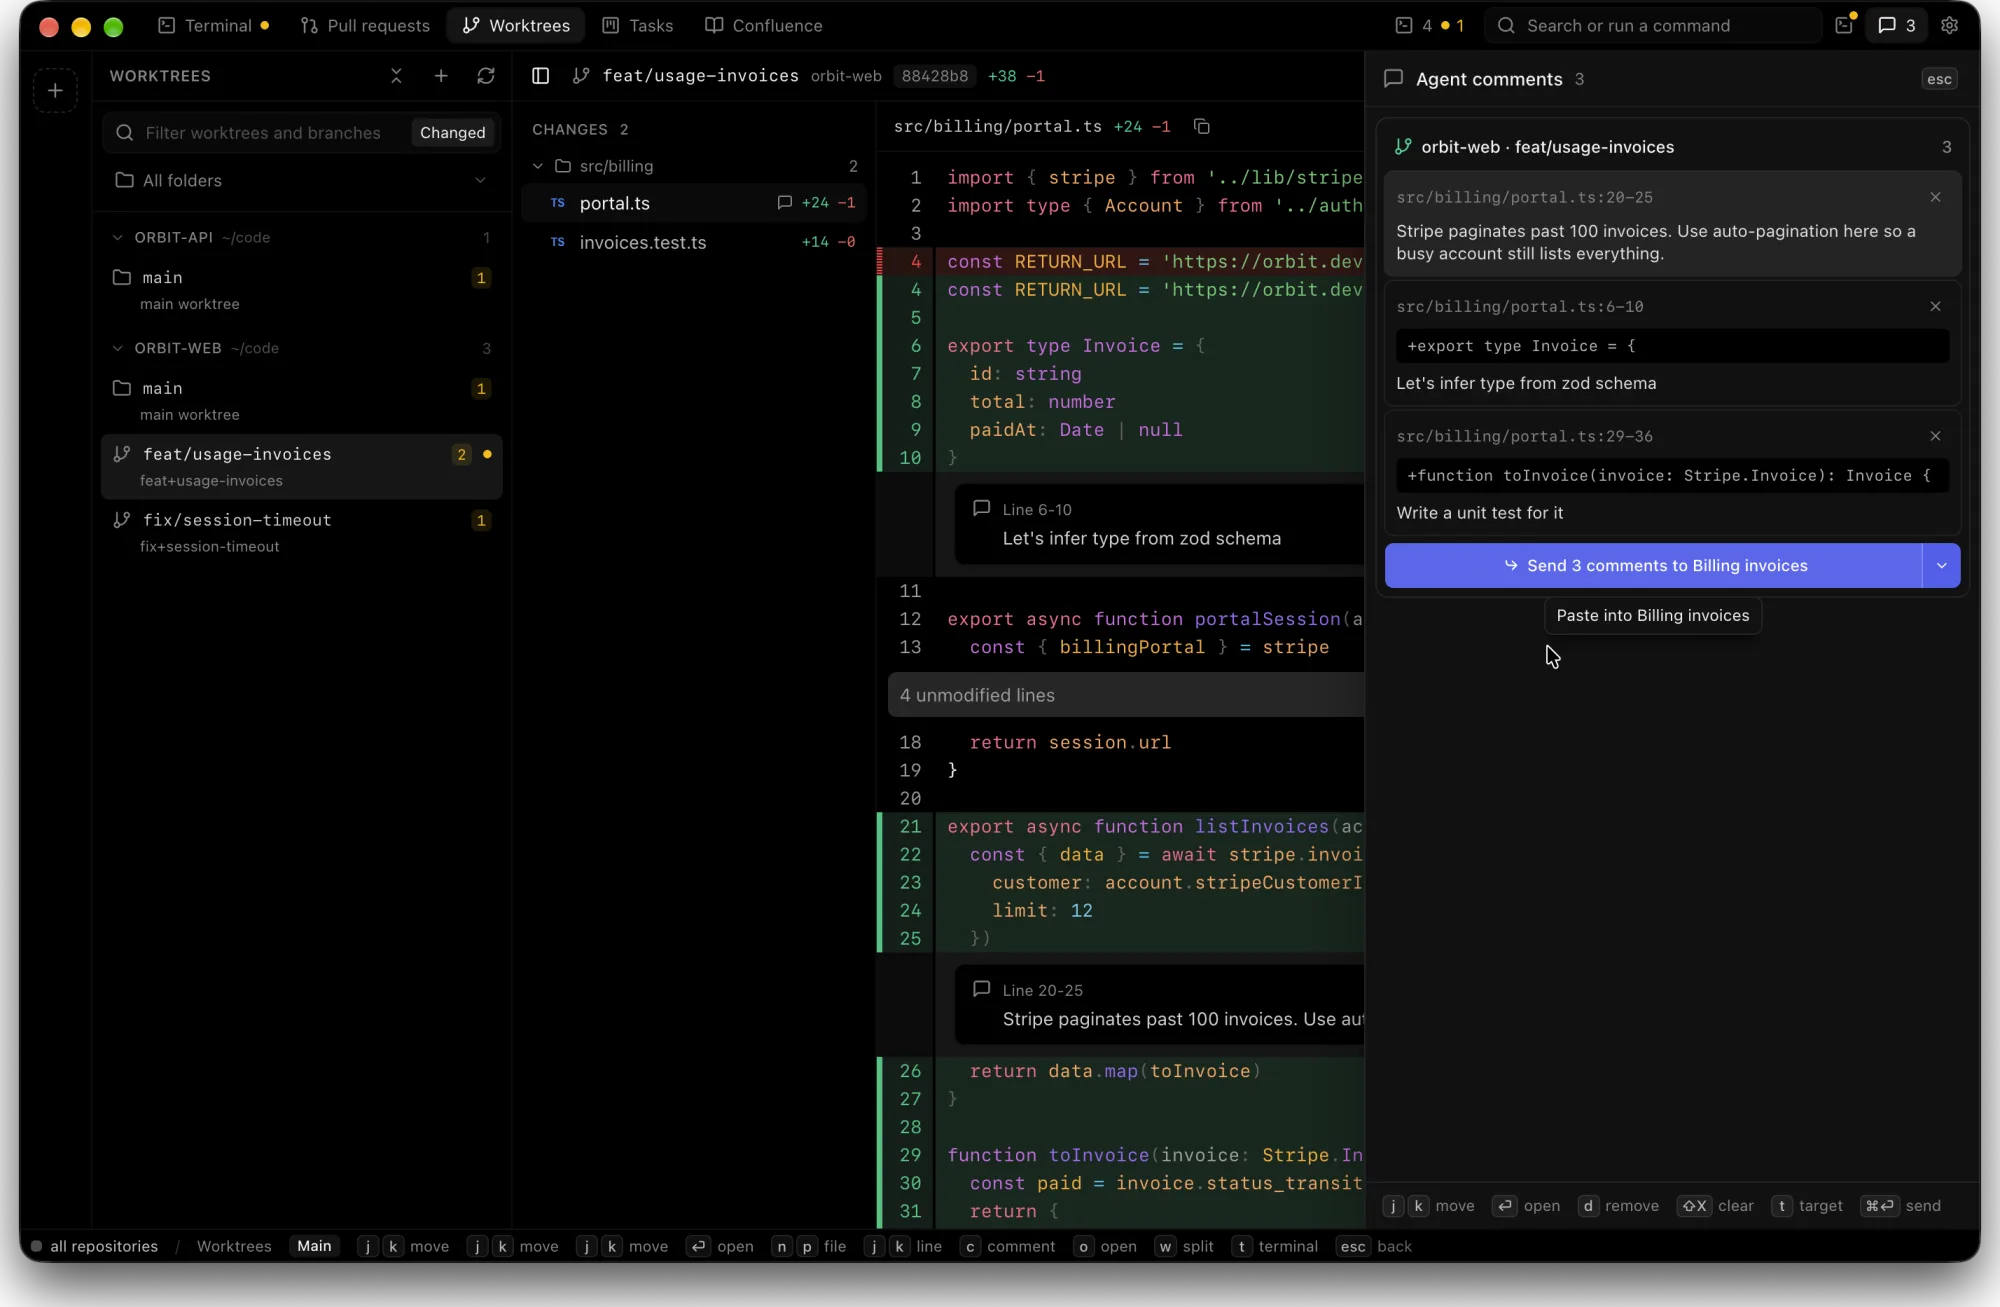
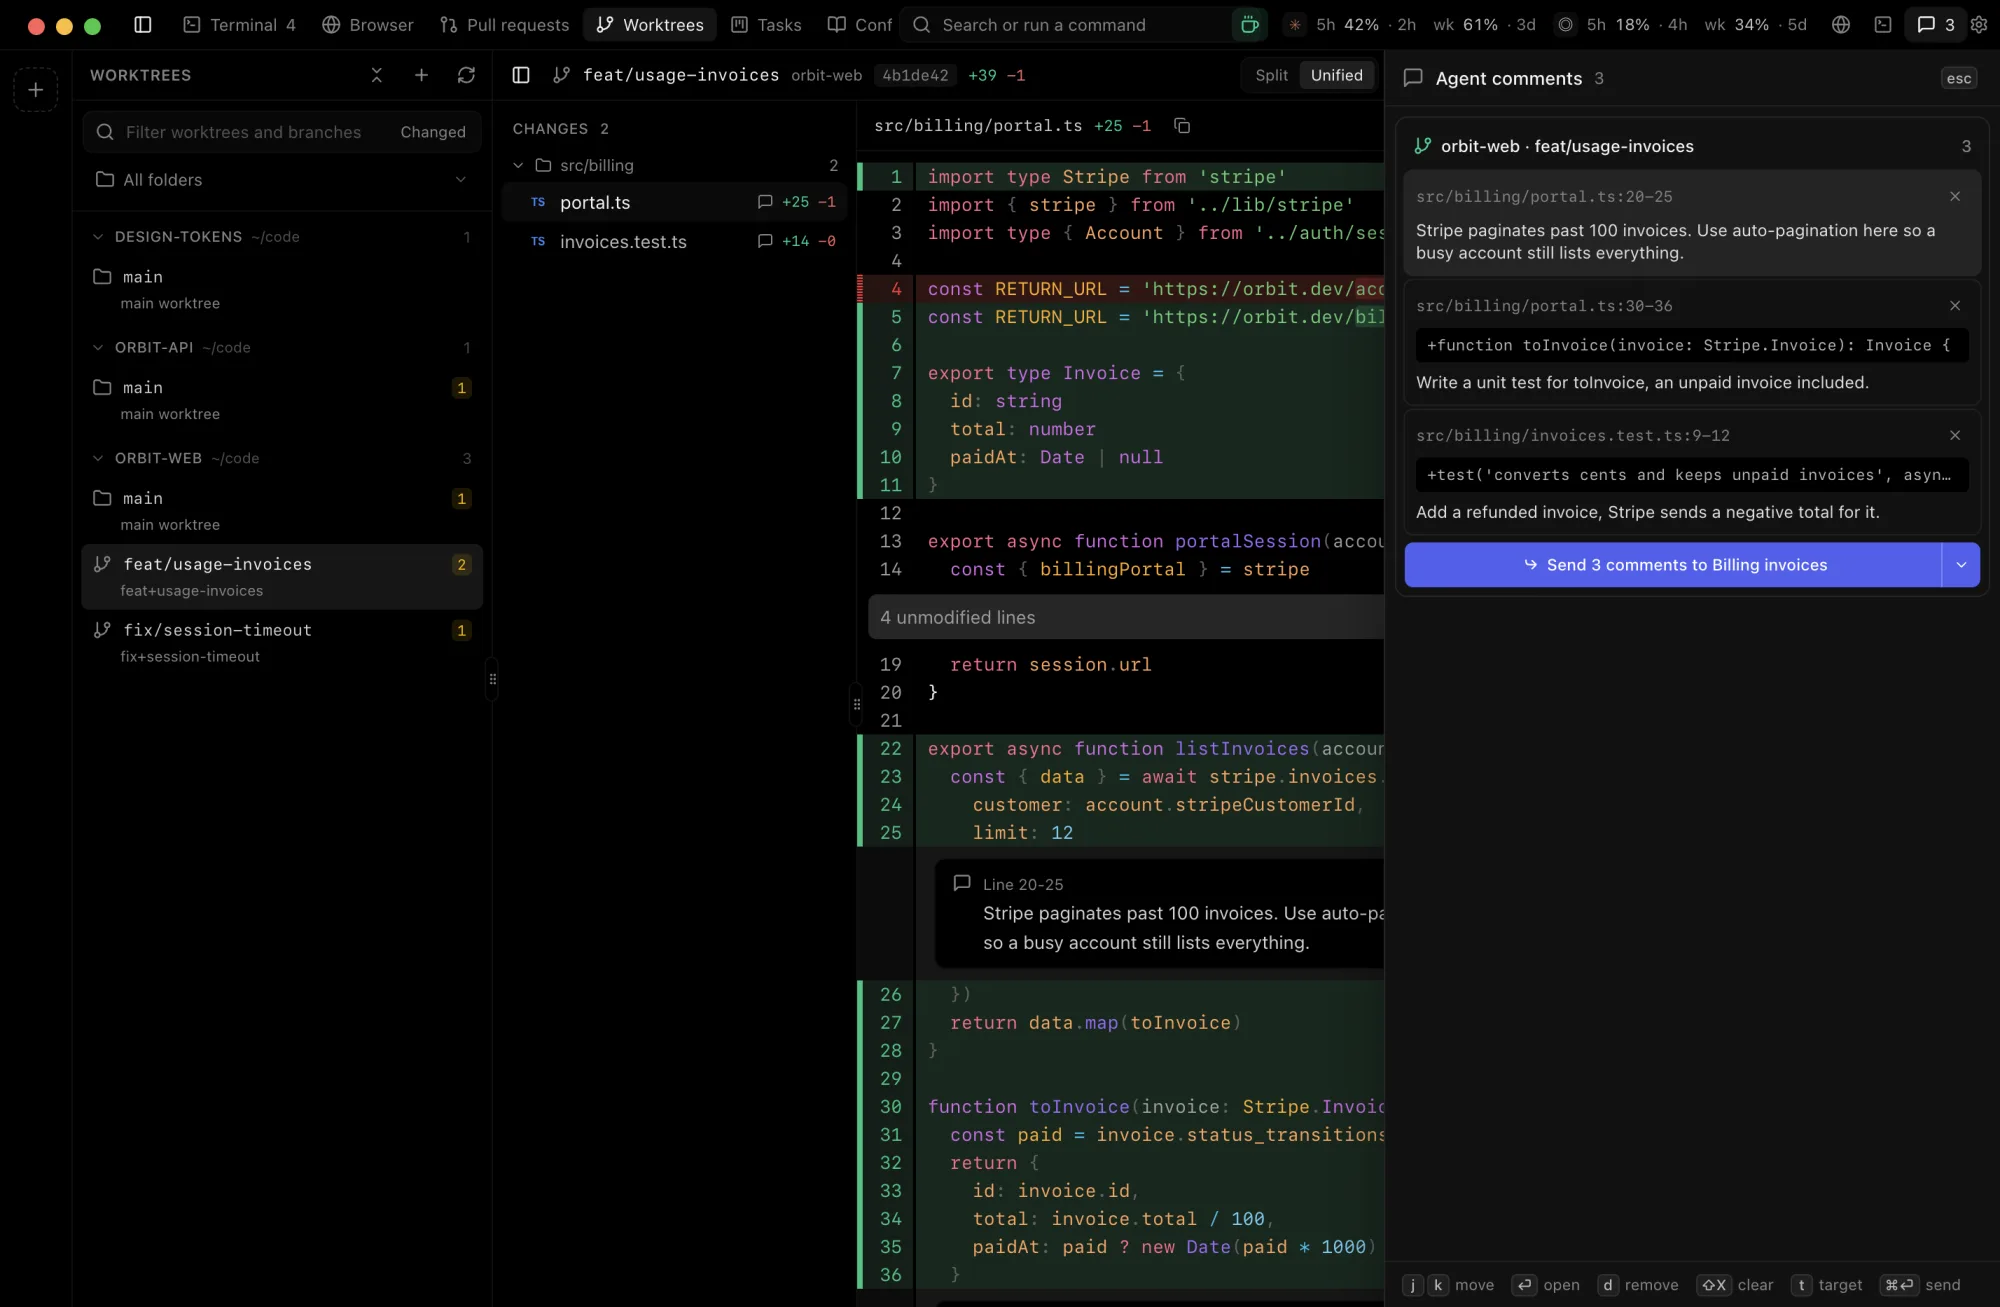
docs: refresh screenshots, add the tour video, llms.txt, sitemap and structured data

diff --git a/apps/landing/index.html b/apps/landing/index.html
@@ -10,6 +10,14 @@
   <meta property="og:image" content="https://treeix.dyvertex.com/assets/og.png" />
   <meta property="og:url" content="https://treeix.dyvertex.com" />
   <meta name="twitter:card" content="summary_large_image" />
+  <link rel="canonical" href="https://treeix.dyvertex.com/" />
+  <meta property="og:type" content="website" />
+  <meta property="og:site_name" content="Treeix" />
+  <meta name="twitter:title" content="Treeix - the AI coding workspace" />
+  <meta name="twitter:description" content="Every worktree, every AI agent session and every pull request in one macOS window." />
+  <meta name="twitter:image" content="https://treeix.dyvertex.com/assets/og.png" />
+  <script type="application/ld+json">{"@context": "https://schema.org", "@type": "SoftwareApplication", "name": "Treeix", "applicationCategory": "DeveloperApplication", "operatingSystem": "macOS 14 or later, Apple silicon", "description": "Treeix is a free, open source AI coding workspace for macOS. It finds every git worktree on your Mac, shows what each Claude Code or Codex agent changed, and sends your line comments back to the agent as its next prompt. GitHub and GitLab pull requests, Jira tickets, Confluence pages, agent terminals, a browser and .env files sit in the same window.", "url": "https://treeix.dyvertex.com", "downloadUrl": "https://treeix.dyvertex.com/download", "image": "https://treeix.dyvertex.com/assets/og.png", "screenshot": "https://treeix.dyvertex.com/assets/hero.webp", "license": "https://www.apache.org/licenses/LICENSE-2.0", "isAccessibleForFree": true, "offers": {"@type": "Offer", "price": "0", "priceCurrency": "USD"}, "codeRepository": "https://github.com/zaxovaiko/treeix", "sameAs": ["https://github.com/zaxovaiko/treeix"], "author": {"@type": "Organization", "name": "Dyvertex", "url": "https://dyvertex.com"}}</script>
+  <script type="application/ld+json">{"@context": "https://schema.org", "@type": "FAQPage", "mainEntity": [{"@type": "Question", "name": "Does my code leave my machine?", "acceptedAnswer": {"@type": "Answer", "text": "No. Treeix reads your repositories locally and runs the command line tools you already have: git for diffs, gh and glab for pull requests, claude and codex for sessions. There is no Treeix server."}}, {"@type": "Question", "name": "Which AI agents does it work with?", "acceptedAnswer": {"@type": "Answer", "text": "Claude Code and Codex, each in its own terminal pane. A plain shell session works too, and Treeix still notices when a session is waiting for an answer."}}, {"@type": "Question", "name": "Do I have to use git worktrees?", "acceptedAnswer": {"@type": "Answer", "text": "No. Any repository under your home folder shows up. Worktrees are how Treeix keeps one agent per branch without touching the checkout you are working in, so it makes them easy, but plain repositories are fine."}}, {"@type": "Question", "name": "What do I need installed?", "acceptedAnswer": {"@type": "Answer", "text": "Git, plus whatever the features you use need: gh or glab for pull requests, claude or codex for agent sessions, acli for Jira and Confluence. Each one is optional and its feature stays quiet without it."}}, {"@type": "Question", "name": "Which Macs does it run on?", "acceptedAnswer": {"@type": "Answer", "text": "Apple silicon, macOS 14 or later. The first launch needs Open Anyway under Privacy & Security, because the build is not notarised yet."}}, {"@type": "Question", "name": "Is it really free?", "acceptedAnswer": {"@type": "Answer", "text": "Yes. Free to download, and the source is public under Apache 2.0. If it saves you an afternoon, open an issue with what you would fix next."}}]}</script>
   <link rel="icon" href="/assets/favicon.png" />
   <link rel="preconnect" href="https://fonts.googleapis.com" />
   <link rel="preconnect" href="https://fonts.gstatic.com" crossorigin />
@@ -74,7 +82,7 @@
       </div>
 
       <figure class="hero-shot">
-        <img src="/assets/hero.webp" width="2000" height="1307" alt="Treeix showing the diff of the feat/usage-invoices worktree, with a comment being written on lines 5 to 9" />
+        <img src="/assets/hero.webp" width="2000" height="1307" alt="Treeix showing the diff of the feat/usage-invoices worktree, with a comment being written on lines 6 to 10" />
       </figure>
     </section>
 

diff --git a/README.md b/README.md
@@ -11,11 +11,13 @@
 [![Electron](https://img.shields.io/badge/Electron-39-47848F.svg?logo=electron&logoColor=white)](https://www.electronjs.org/)
 [![React](https://img.shields.io/badge/React-19-61DAFB.svg?logo=react&logoColor=black)](https://react.dev/)
 [![Bun](https://img.shields.io/badge/Bun-tests-000000.svg?logo=bun&logoColor=white)](https://bun.sh/)
-[![Plugins](https://img.shields.io/badge/plugins-8-8b5cf6.svg)](packages/README.md)
+[![Plugins](https://img.shields.io/badge/plugins-12-8b5cf6.svg)](packages/README.md)
 
 [Download](https://treeix.dyvertex.com/download) · [Website](https://treeix.dyvertex.com) · [Plugin docs](packages/README.md) · [Architecture](docs/architecture.md)
 
-<img src="apps/landing/assets/hero.webp" alt="Treeix reviewing a worktree diff" width="900" />
+<a href="https://youtu.be/Un4AvXgqtAM"><img src="apps/landing/assets/tour.webp" alt="Watch the 80-second Treeix tour on YouTube" width="900" /></a>
+
+[Watch the 80-second tour](https://youtu.be/Un4AvXgqtAM)
 
 </div>
 
@@ -30,6 +32,11 @@ AI agents write code faster than anyone can read it. The reading is the bottlene
 - **Sessions keep running.** Claude, Codex, a shell or any CLI agent you add survive a reload, docked next to the diff or in their own tab.
 - **Pull requests.** `gh` and `glab` bring GitHub and GitLab pull requests in with their review threads, viewed files, conflict and CI state.
 - **Tasks and pages.** The Atlassian CLI opens Jira work items and Confluence pages beside the branch, and a URL previews wherever you paste it.
+- **Browser.** A Chromium tab with DevTools for the app your agent is building. Comment on an element and the note joins the same queue as your code comments.
+- **Editor.** Fix a line yourself in the built-in editor. Every save keeps a snapshot you can go back to.
+- **Env.** Every `.env` file across your worktrees in one table: what is secret, what is exposed to the browser, what is missing or differs from `main`.
+- **Usage limits.** Claude and Codex 5-hour and weekly limits in the title bar, so a long run does not stop by surprise.
+- **History.** Closed sessions stay in History. Reopen one and the agent picks up the same conversation.
 - **Markdown.** Headings fold, mermaid blocks render, private uploads load their images, and full screen zooms.
 - **Everything is a plugin.** Switch any feature above off in Settings and it stops loading its code entirely.
 
@@ -49,7 +56,7 @@ AI agents write code faster than anyone can read it. The reading is the bottlene
 
 **Every worktree, its diff and your comments on one screen.** Split or unified, comments sit on the lines they belong to.
 
-<img src="apps/landing/assets/hero.webp" alt="The diff of the feat/usage-invoices worktree with a comment being written on lines 5 to 9" width="900" />
+<img src="apps/landing/assets/hero.webp" alt="The diff of the feat/usage-invoices worktree with a comment being written on lines 6 to 10" width="900" />
 
 **Comments go back to the agent.** Select the lines that need another pass and write your note. The whole queue then goes to the Claude Code or Codex session running in that worktree as its next prompt.
 
@@ -57,11 +64,27 @@ AI agents write code faster than anyone can read it. The reading is the bottlene
 
 **A group per agent.** A group holds one agent's worktree, terminals and plan, and it gets a badge the moment that agent waits for an answer.
 
-<img src="apps/landing/assets/terminal.webp" alt="Terminal page with three agent groups and one badge showing a session waiting for input" width="900" />
+<img src="apps/landing/assets/terminal.webp" alt="Terminal page with three agent groups, a Claude session asking to run the tests, and a badge on its group" width="900" />
 
 **Pull requests, tickets and specs in the same window.** A reviewer's comment becomes an agent task with one click.
 
 <img src="apps/landing/assets/pr.webp" alt="A pull request with review threads and the Add to agent comments button" width="900" />
+
+**A browser beside the branch.** Open the app your agent is building, with DevTools, console and network capture. Comments on elements go to the agent like comments on code.
+
+<img src="apps/landing/assets/browser.webp" alt="The built-in browser showing a billing page, with the Send 3 comments to Billing invoices button in the toolbar" width="900" />
+
+**Quick fixes without leaving the review.** The editor opens the file straight from the worktree, one click from its diff.
+
+<img src="apps/landing/assets/editor.webp" alt="The built-in editor with portal.ts open from the feat/usage-invoices worktree and the file explorer on the right" width="900" />
+
+**Env files, checked.** Secrets, public variables, values exposed to the browser and keys that are missing compared to main.
+
+<img src="apps/landing/assets/env.webp" alt="The Env tab listing variables of feat/usage-invoices, with one exposed secret and one missing webhook secret flagged" width="900" />
+
+**Every feature is a plugin.** Switch off what you don't use and its code never loads.
+
+<img src="apps/landing/assets/plugins.webp" alt="Settings, Plugins page with a toggle for each of the twelve plugins" width="900" />
 
 ## Install
 
@@ -82,14 +105,18 @@ The host in `apps/desktop` owns workspaces, worktrees, diffs, the editor, commen
 
 | Plugin | Default | What it adds |
 | --- | --- | --- |
-| [`terminal`](packages/plugins/terminal) | on | Terminal tab, docked panel, sessions for Claude, Codex, a shell or any agent you configure |
-| [`pull-requests`](packages/plugins/pull-requests) | on | GitHub and GitLab pull requests, review threads, conflicts |
+| [`terminal`](packages/plugins/terminal) | on | Terminal tab, docked panel, sessions for Claude, Codex, a shell or any agent you configure, surviving reloads |
+| [`chat`](packages/plugins/chat) | on | Chat view for Claude, Codex and any agent with a chat command, next to their terminals |
+| [`pull-requests`](packages/plugins/pull-requests) | on | GitHub and GitLab pull requests, review threads, viewed files, conflicts |
+| [`browser`](packages/plugins/browser) | on | Chromium tab and panel with DevTools, element comments, console and network capture, cookie import |
+| [`env`](packages/plugins/env) | on | Every `.env` file across worktrees: secret, public or exposed, missing or different from main, inline editing |
 | [`plans`](packages/plugins/plans) | on | Claude plans in the palette and on sessions |
 | [`usage-limits`](packages/plugins/usage-limits) | on | Claude and Codex 5-hour and weekly limits in the title bar |
+| [`themes`](packages/plugins/themes) | on | Light and dark themes after Vercel, Claude, Apple, Xcode, VS Code, GitHub, Nord, Dracula and Solarized |
 | [`diagrams`](packages/plugins/diagrams) | on | Mermaid code blocks, loaded on the first diagram |
-| [`keep-awake`](packages/plugins/keep-awake) | on | Keeps the Mac awake while an agent is working |
-| [`jira`](packages/plugins/jira) | off | Jira work items, status changes, worktree per item |
-| [`confluence`](packages/plugins/confluence) | off | Confluence pages, search, spaces, link previews |
+| [`keep-awake`](packages/plugins/keep-awake) | on | Keeps the Mac awake while an agent is working, optionally with the lid closed |
+| [`jira`](packages/plugins/jira) | off | Jira work items, status changes, worktree per item, sending items to agents |
+| [`confluence`](packages/plugins/confluence) | off | Confluence pages, search, page trees, link previews |
 
 Writing one takes a `package.json` and a `renderer/index.tsx`: see [packages/README.md](packages/README.md).
 
